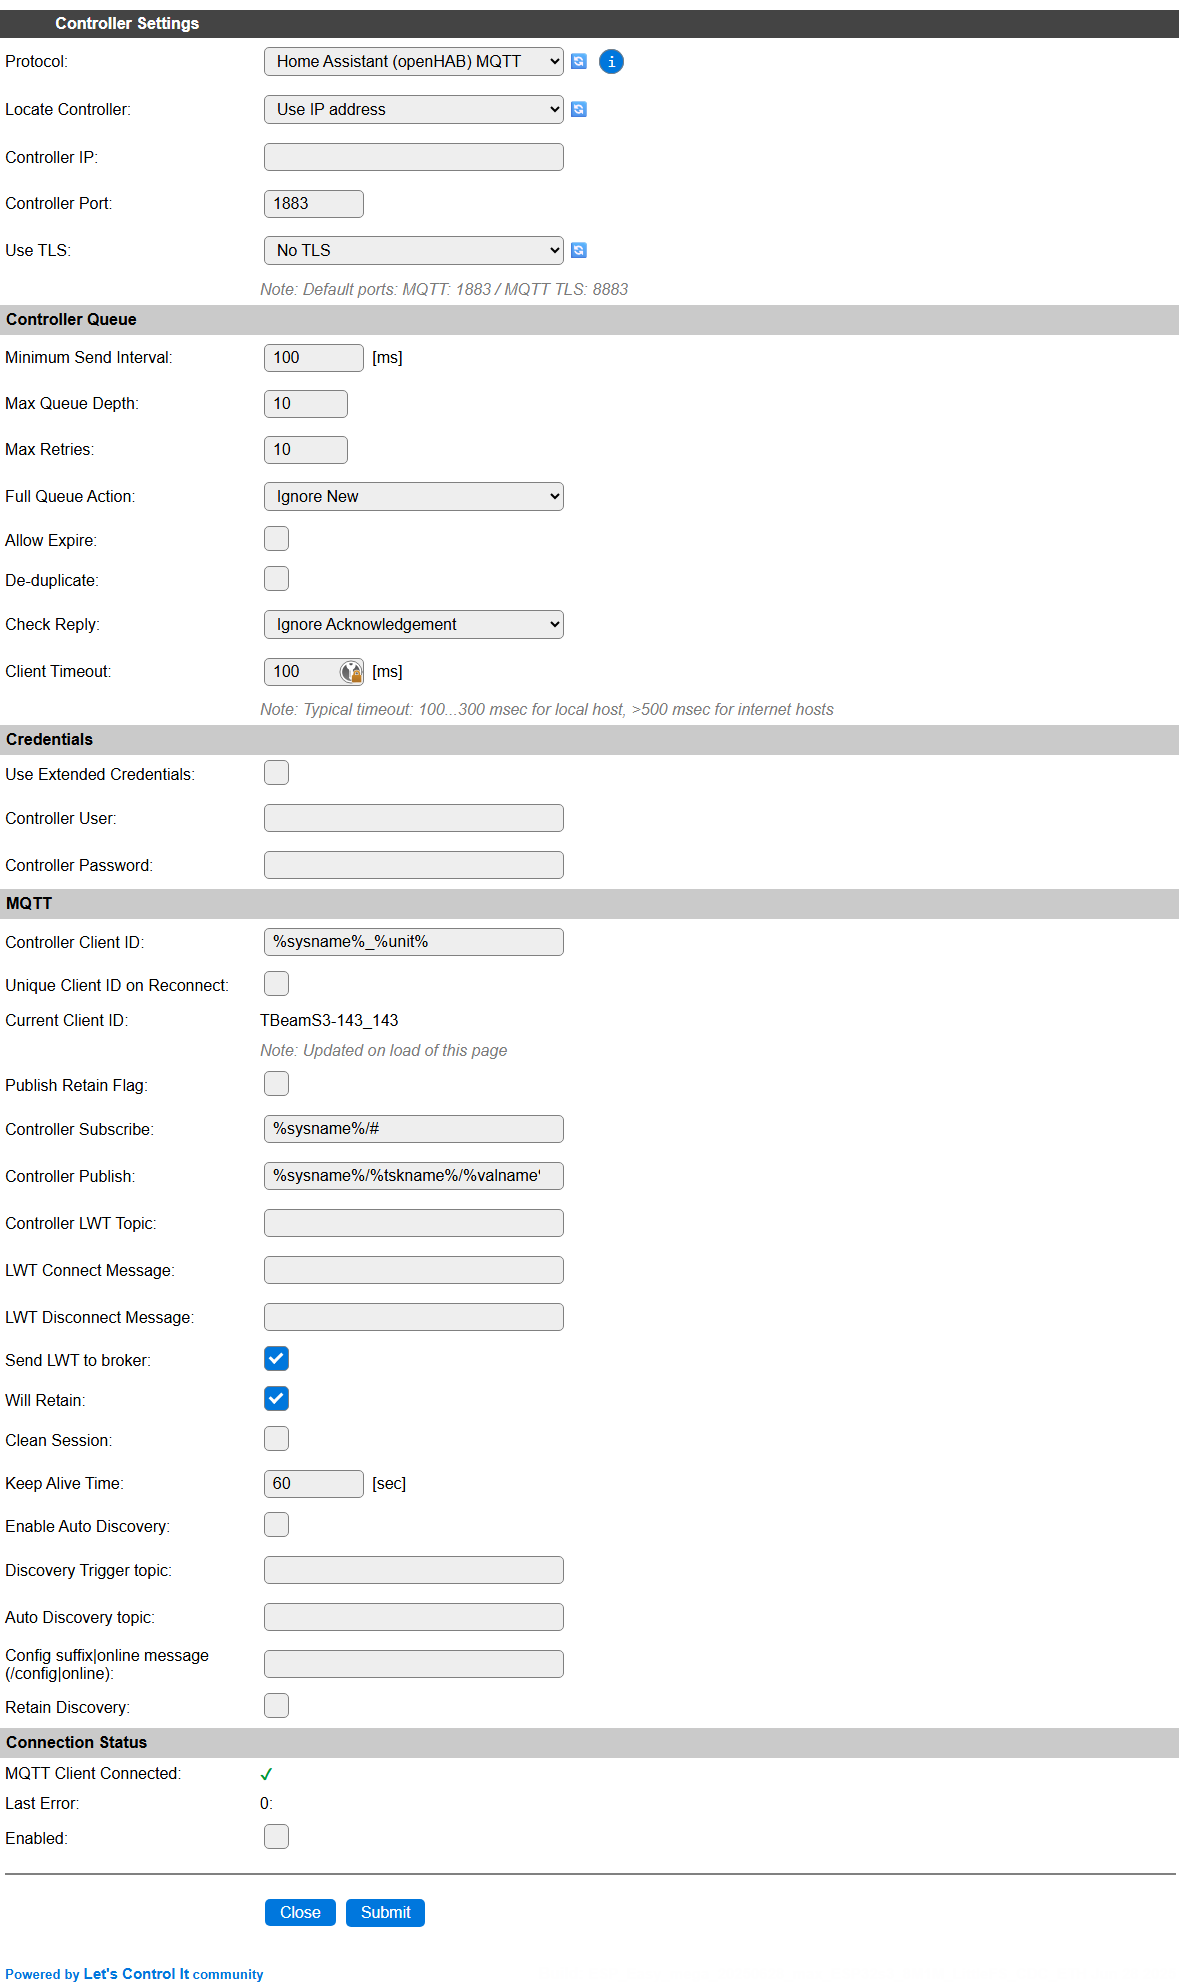
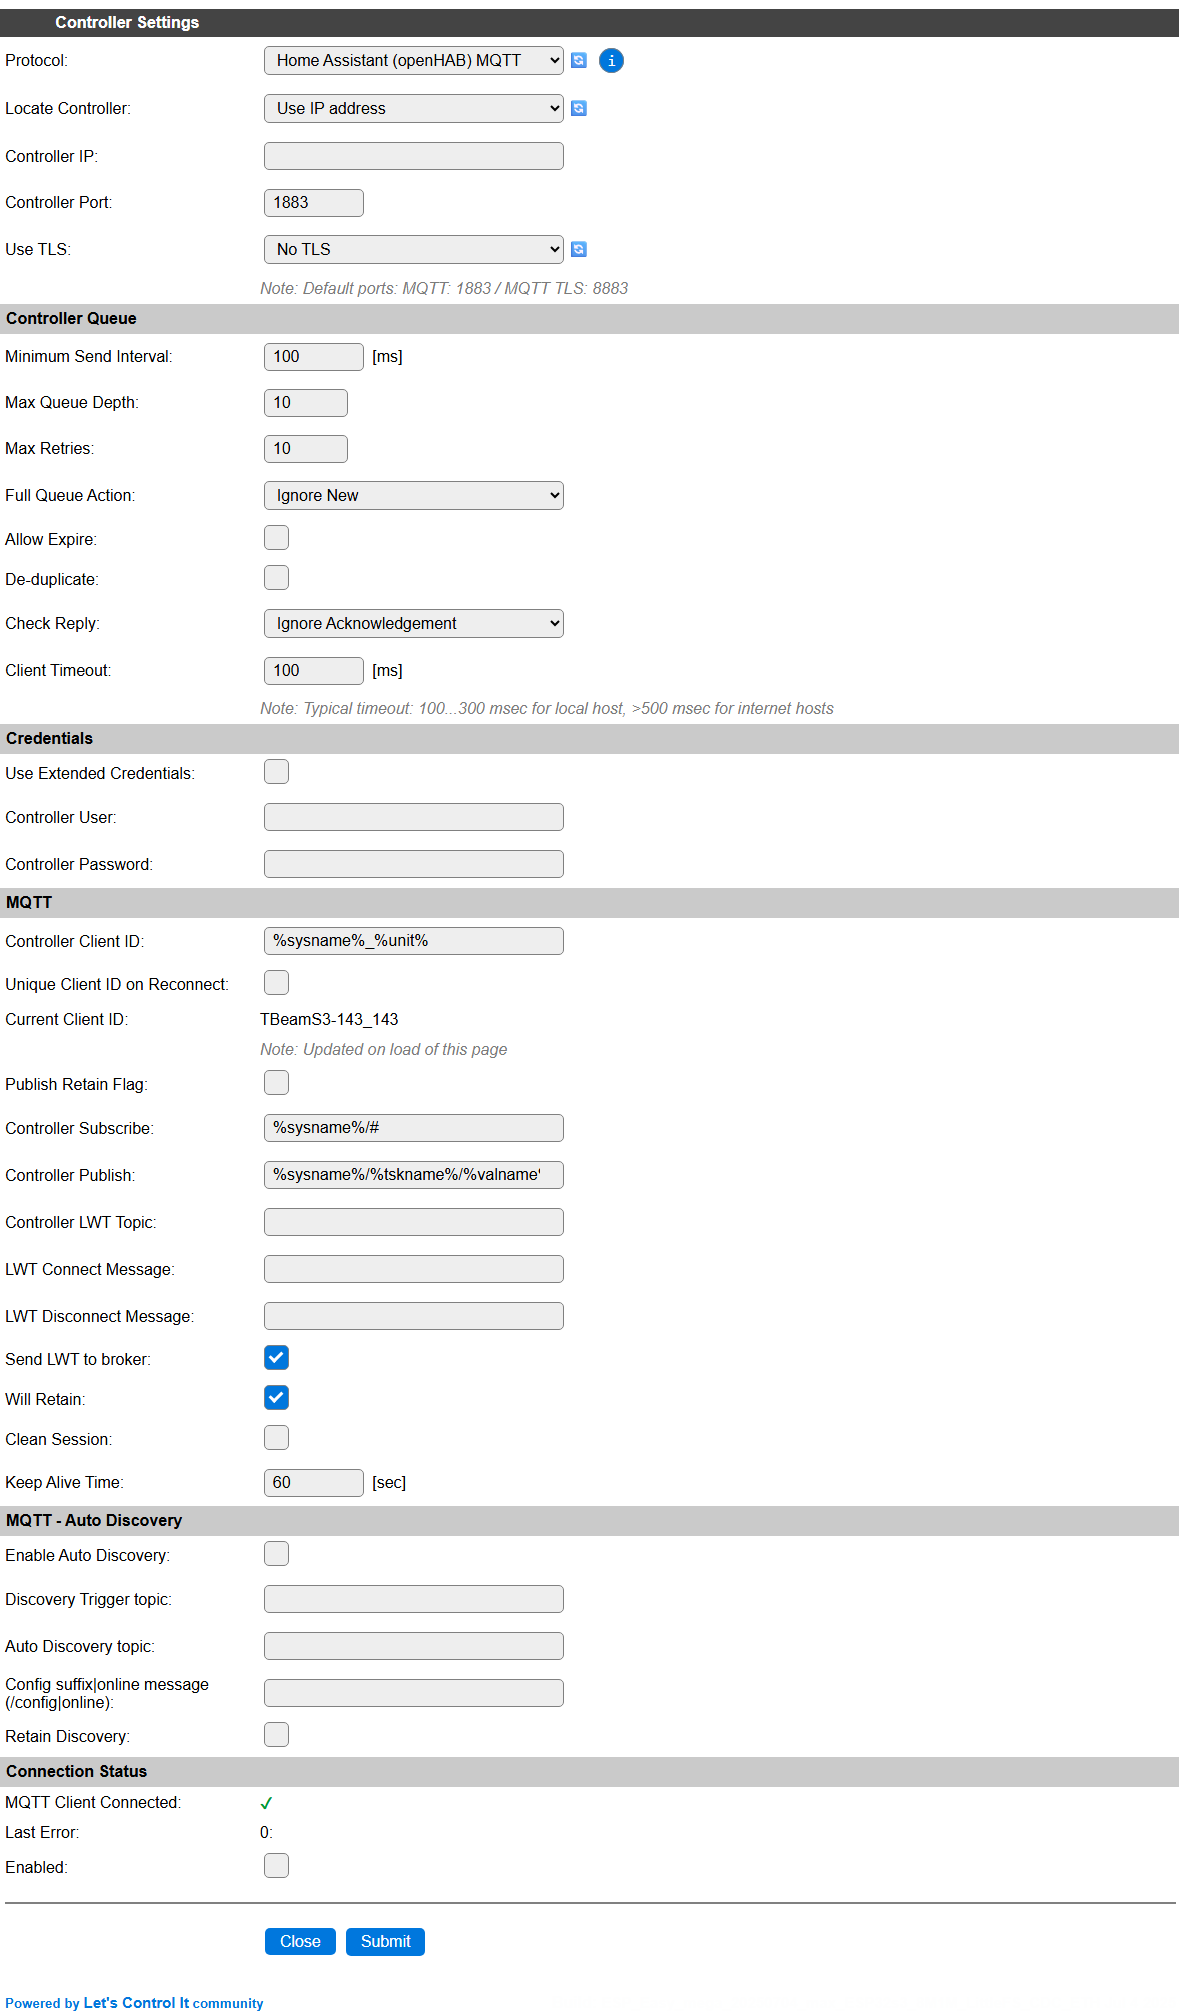
[AutoDiscover] Add Duration, Date and Timestamp device classes, fix some irregularities

diff --git a/src/src/Helpers/_CPlugin_Helper_mqtt.cpp b/src/src/Helpers/_CPlugin_Helper_mqtt.cpp
@@ -477,12 +477,17 @@ bool MQTT_HomeAssistant_SendAutoDiscovery(controllerIndex_t         ControllerIn
           const String elementIds = groupId != 0 && !usesControllerIDX ?
                                      strformat(F("group_%u"), groupId) :
                                      strformat(F("%s_%s"),    hostName.c_str(), taskName.c_str());
+          const String docLink = makeDocLink(strformat(
+                                               F("Plugin/%s.html"),
+                                               get_formatted_Plugin_number(Settings.getPluginID_for_task(x)).c_str()), true);
 
-          // dev = device, ids = identifiers, mf = manufacturer, sw = sw_version
+          // dev = device, ids = identifiers, mf = manufacturer, sw = sw_version, o = origin, url = support_url
           const String deviceElement = strformat(F(",\"dev\":{\"name\":\"%s\",\"ids\":[\"%s\"],"
-                                                   "\"mf\":\"ESPEasy\",\"sw\":\"%s\"}"),
+                                                   "\"mf\":\"ESPEasy\",\"sw\":\"%s\"},"
+                                                   "\"o\":{\"name\":\"%s\",\"sw\":\"%s\",\"url\":\"%s\"}"),
                                                  elementName.c_str(), elementIds.c_str(),
-                                                 getSystemBuildString().c_str());
+                                                 getSystemBuildString().c_str(),
+                                                 elementName.c_str(), getSystemBuildString().c_str(), docLink.c_str());
 
           #  if FEATURE_STRING_VARIABLES
 
@@ -931,6 +936,33 @@ bool MQTT_HomeAssistant_SendAutoDiscovery(controllerIndex_t         ControllerIn
                 break;
               }
 
+              case Sensor_VType::SENSOR_TYPE_DURATION:
+              case Sensor_VType::SENSOR_TYPE_DATE:
+              case Sensor_VType::SENSOR_TYPE_TIMESTAMP:
+              {
+                const __FlashStringHelper*dev = Sensor_VType::SENSOR_TYPE_DURATION == discoveryItems[s].VType ? F("duration") :
+                                                Sensor_VType::SENSOR_TYPE_DATE == discoveryItems[s].VType ? F("date") :
+                                                F("timestamp");
+                const __FlashStringHelper*uomDef = (Sensor_VType::SENSOR_TYPE_DURATION == discoveryItems[s].VType ? F("min") :
+                                                    F(""));
+
+                for (uint8_t v = discoveryItems[s].varIndex; v < varCount; ++v) {
+                  const String valuename = MQTT_DiscoveryHelperGetValueName(x, v, discoveryItems[s]);
+                  const String uom       = MQTT_DiscoveryHelperGetValueUoM(x, v, discoveryItems[s], uomDef);
+                  success &= MQTT_DiscoveryPublishWithStatusAndSet(x, v, valuename,
+                                                                   ControllerIndex,
+                                                                   ControllerSettings,
+                                                                   F("sensor"),
+                                                                   dev,
+                                                                   uom,
+                                                                   &TempEvent,
+                                                                   deviceElement,
+                                                                   success,
+                                                                   false, false, elementIds);
+                }
+                break;
+              }
+
 
               case Sensor_VType::SENSOR_TYPE_ANALOG_ONLY:
               case Sensor_VType::SENSOR_TYPE_GPS_ONLY:
@@ -1026,9 +1058,8 @@ bool MQTT_DiscoveryGetDeviceVType(taskIndex_t                 TaskIndex,
   if (PluginCall(PLUGIN_GET_DISCOVERY_VTYPES, &TempEvent, deviceClass)) {
     #  ifndef BUILD_NO_DEBUG
 
-    // FIXME change this log to DEBUG level
-    if (loglevelActiveFor(LOG_LEVEL_INFO)) {
-      addLog(LOG_LEVEL_INFO, strformat(F("MQTT : AutoDiscovery using Plugin-defined config (%d)"), discoveryItems.size()));
+    if (loglevelActiveFor(LOG_LEVEL_DEBUG)) {
+      addLog(LOG_LEVEL_DEBUG, strformat(F("MQTT : AutoDiscovery using Plugin-defined config (%d)"), discoveryItems.size()));
     }
     #  endif // ifndef BUILD_NO_DEBUG
 
@@ -1050,9 +1081,8 @@ bool MQTT_DiscoveryGetDeviceVType(taskIndex_t                 TaskIndex,
 
     #  ifndef BUILD_NO_DEBUG
 
-    // FIXME change this log to DEBUG level
-    if (loglevelActiveFor(LOG_LEVEL_INFO)) {
-      addLog(LOG_LEVEL_INFO, strformat(F("MQTT : AutoDiscovery Plugin specific config added (%d)"), discoveryItems.size()));
+    if (loglevelActiveFor(LOG_LEVEL_DEBUG)) {
+      addLog(LOG_LEVEL_DEBUG, strformat(F("MQTT : AutoDiscovery Plugin specific config added (%d)"), discoveryItems.size()));
     }
     #  endif // ifndef BUILD_NO_DEBUG
   } else {
@@ -1062,9 +1092,8 @@ bool MQTT_DiscoveryGetDeviceVType(taskIndex_t                 TaskIndex,
 
       #  ifndef BUILD_NO_DEBUG
 
-      // FIXME change this log to DEBUG level
-      if (loglevelActiveFor(LOG_LEVEL_INFO)) {
-        addLog(LOG_LEVEL_INFO, strformat(F("MQTT : AutoDiscovery Default Plugin config (%d)"), discoveryItems.size()));
+      if (loglevelActiveFor(LOG_LEVEL_DEBUG)) {
+        addLog(LOG_LEVEL_DEBUG, strformat(F("MQTT : AutoDiscovery Default Plugin config (%d)"), discoveryItems.size()));
       }
       #  endif // ifndef BUILD_NO_DEBUG
     }
@@ -1151,6 +1180,7 @@ bool MQTT_DiscoveryPublishWithStatusAndSet(taskIndex_t               taskIndex,
                                            bool                      sendTrigger) {
   if (!valueName.isEmpty()) {
     const String withSet   = hasSet ? F(",\"cmd_t\":\"~/set\"") : EMPTY_STRING;
+    const String schema    = hasSet ? EMPTY_STRING : "\"schema\":\"basic\",";
     const String devOrIcon = hasIcon ? F("ic") : F("dev_cla");
     const String withUoM   = !unitOfMeasure.isEmpty() ?
                              strformat(F(",\"unit_of_meas\":\"%s\""), unitOfMeasure.c_str()) :
@@ -1176,10 +1206,10 @@ bool MQTT_DiscoveryPublishWithStatusAndSet(taskIndex_t               taskIndex,
                                                               uniqueId,
                                                               elementId,
                                                               valueName);
-    const String discoveryMessage = strformat(F("{\"~\":\"%s\",\"name\":\"%s %s\",\"uniq_id\":\"%s\",\"schema\":\"basic\","
+    const String discoveryMessage = strformat(F("{\"~\":\"%s\",\"name\":\"%s %s\",\"uniq_id\":\"%s\",%s"
                                                 "\"%s\":\"%s\"%s%s,\"stat_t\":\"~\""
                                                 "%s}"), // deviceElement last
-                                              publish.c_str(), taskName.c_str(), valueName.c_str(), uniqueId.c_str(),
+                                              publish.c_str(), taskName.c_str(), valueName.c_str(), uniqueId.c_str(), schema.c_str(),
                                               devOrIcon.c_str(), deviceClass.c_str(), withUoM.c_str(), withSet.c_str(),
                                               deviceElement.c_str());
     const String triggerMessage = strformat(F("{\"atype\":\"trigger\",\"t\":\"%s\",\"pl\":\"{\\\"TRIG\\\":\\\"%s\\\"}\","

diff --git a/src/src/DataTypes/SensorVType.cpp b/src/src/DataTypes/SensorVType.cpp
@@ -89,6 +89,9 @@ uint8_t getValueCountFromSensorType(Sensor_VType sensorType, bool log)
     case Sensor_VType::SENSOR_TYPE_NOX_ONLY:
     case Sensor_VType::SENSOR_TYPE_SWITCH_INVERTED:
     case Sensor_VType::SENSOR_TYPE_WIND_SPEED:
+    case Sensor_VType::SENSOR_TYPE_DURATION:
+    case Sensor_VType::SENSOR_TYPE_DATE:
+    case Sensor_VType::SENSOR_TYPE_TIMESTAMP:
       return 1;
   }
   #ifndef BUILD_NO_DEBUG
@@ -168,6 +171,9 @@ const __FlashStringHelper* getSensorTypeLabel(Sensor_VType sensorType) {
     case Sensor_VType::SENSOR_TYPE_NOX_ONLY:         return F("NOx");
     case Sensor_VType::SENSOR_TYPE_SWITCH_INVERTED:  return F("Switch (inv.)");
     case Sensor_VType::SENSOR_TYPE_WIND_SPEED:       return F("Wind speed");
+    case Sensor_VType::SENSOR_TYPE_DURATION:         return F("Duration");
+    case Sensor_VType::SENSOR_TYPE_DATE:             return F("Date");
+    case Sensor_VType::SENSOR_TYPE_TIMESTAMP:        return F("Timestamp");
     #else // if FEATURE_MQTT_DISCOVER || FEATURE_CUSTOM_TASKVAR_VTYPE
     case Sensor_VType::SENSOR_TYPE_ANALOG_ONLY:
     case Sensor_VType::SENSOR_TYPE_TEMP_ONLY:
@@ -201,6 +207,9 @@ const __FlashStringHelper* getSensorTypeLabel(Sensor_VType sensorType) {
     case Sensor_VType::SENSOR_TYPE_NOX_ONLY:
     case Sensor_VType::SENSOR_TYPE_SWITCH_INVERTED:
     case Sensor_VType::SENSOR_TYPE_WIND_SPEED:
+    case Sensor_VType::SENSOR_TYPE_DURATION:
+    case Sensor_VType::SENSOR_TYPE_DATE:
+    case Sensor_VType::SENSOR_TYPE_TIMESTAMP:
       break;
     #endif // if FEATURE_MQTT_DISCOVER || FEATURE_CUSTOM_TASKVAR_VTYPE
   }

diff --git a/src/src/WebServer/DevicesPage.cpp b/src/src/WebServer/DevicesPage.cpp
@@ -400,7 +400,8 @@ void handle_devices_CopySubmittedSettings(taskIndex_t taskIndex, pluginID_t task
     Settings.TaskDeviceSendData[controllerNr][taskIndex] = isFormItemChecked(getPluginCustomArgName(F("TDSD"), controllerNr));
     # if FEATURE_MQTT_DISCOVER
     
-    if (isFormItemChecked(getPluginCustomArgName(F("TDDSC"), controllerNr))) {
+    if (isFormItemChecked(getPluginCustomArgName(F("TDDSC"), controllerNr)) &&
+        Settings.TaskDeviceSendData[controllerNr][taskIndex]) {
       discoverController = controllerNr;
     }
     # endif // if FEATURE_MQTT_DISCOVER
@@ -1589,8 +1590,7 @@ void devicePage_show_controller_config(taskIndex_t taskIndex, deviceIndex_t Devi
                                         (Settings.Protocol[controllerNr] != 0);
         # if FEATURE_MQTT_DISCOVER
         const bool showMqttGroup = (validProtocolIndex(ProtocolIndex) &&
-                                    getProtocolStruct(ProtocolIndex).mqttAutoDiscover &&
-                                    Settings.TaskDeviceSendData[controllerNr][taskIndex]);
+                                    getProtocolStruct(ProtocolIndex).mqttAutoDiscover);
         # endif // if FEATURE_MQTT_DISCOVER
         # if FEATURE_STRING_VARIABLES
         const bool allowSendDerived = (validProtocolIndex(ProtocolIndex) &&

diff --git a/src/src/WebServer/ControllerPage.cpp b/src/src/WebServer/ControllerPage.cpp
@@ -479,6 +479,8 @@ void handle_controllers_ControllerSettingsPage(controllerIndex_t controllerindex
             #  if FEATURE_MQTT_DISCOVER
 
             if (proto.mqttAutoDiscover) {
+              addTableSeparator(F("MQTT - Auto Discovery"), 2, 3);
+
               addControllerParameterForm(*ControllerSettings, controllerindex, ControllerSettingsStruct::CONTROLLER_AUTO_DISCOVERY_OPTION);
               addControllerParameterForm(*ControllerSettings, controllerindex, ControllerSettingsStruct::CONTROLLER_AUTO_DISCOVERY_TRIGGER);
               addControllerParameterForm(*ControllerSettings, controllerindex, ControllerSettingsStruct::CONTROLLER_AUTO_DISCOVERY_TOPIC);

diff --git a/src/src/Helpers/_Plugin_SensorTypeHelper.cpp b/src/src/Helpers/_Plugin_SensorTypeHelper.cpp
@@ -67,8 +67,7 @@ void sensorTypeHelper_Selector(const String& id, int optionCount, const uint8_t 
   for (uint8_t x = 0; x < optionCount; x++)
   {
     const Sensor_VType optionVType = static_cast<Sensor_VType>(options[x]);
-    String name = getSensorTypeLabel(optionVType);
-    addSelector_Item(name,
+    addSelector_Item(getSensorTypeLabel(optionVType),
                      options[x],
                      choice == optionVType);
   }

diff --git a/src/src/DataTypes/SensorVType.h b/src/src/DataTypes/SensorVType.h
@@ -66,6 +66,9 @@ enum class Sensor_VType : uint8_t {
   SENSOR_TYPE_NOX_ONLY        = 129,
   SENSOR_TYPE_SWITCH_INVERTED = 130,
   SENSOR_TYPE_WIND_SPEED      = 131,
+  SENSOR_TYPE_DURATION        = 132,
+  SENSOR_TYPE_DATE            = 133,
+  SENSOR_TYPE_TIMESTAMP       = 134,
 
   SENSOR_TYPE_NOT_SET = 255
 };

diff --git a/docs/source/Controller/C005.rst b/docs/source/Controller/C005.rst
@@ -113,11 +113,16 @@ Supported variables:
 
 * **Keep Alive Time**: The time after which the MQTT broker will disconnect the client if no new data is sent. Range 0..65535 seconds, default 60. Should usually not be set below 15 seconds, to avoid frequent disconnects and reconnects (causing the AutoDiscovery, see below, to be re-sent...).
 
+MQTT - Auto Discovery
+^^^^^^^^^^^^^^^^^^^^^
+
 (AutoDiscovery related settings added 2025/06/28)
 
 * **Enable Auto Discovery**: When checked, the controller will send discovery data for all connected and enabled tasks to the MQTT server on first startup, and when receiving an ``online`` message in the Discovery Trigger Topic, when configured.
 
-* **Discovery Trigger topic**: The discovery can be started by multiple triggers:
+* **Discovery Trigger topic**: Default for Home assistant: ``homeassistant/status``
+
+The discovery can be started by multiple triggers:
 
 1) ESPEasy MQTT Controller start
 2) Home assistant MQTT Broker startup, sending an ``online`` message (see below) in the topic ``homeassistant/status``
@@ -125,7 +130,7 @@ Supported variables:
 
 When Auto Discovery is triggered, it will be started after a random, non-blocking, delay between 1 and 30 seconds to spread the load on the MQTT Broker f.e. after a restart of Home assistant, requesting for a discovery, or after a power failure and many ESPEasy devices starting at nearly the same time.
 
-* **Auto Discovery topic**: The topic that should be used for sending the Discovery data. For Home assistant, this should be set to ``homeassistant/%devclass%/%unique_id%``, the available variables are the same as for the **Controller Publish** settinng, and extended with these:
+* **Auto Discovery topic**: The topic that should be used for sending the Discovery data. For Home assistant, this should be set to ``homeassistant/%devclass%/%unique_id%``, the available variables are the same as for the **Controller Publish** setting, and extended with these:
 
 Extra variables:
 
@@ -135,9 +140,9 @@ Extra variables:
 
 |
 
-* **Config suffix|online message (/config|online)**: When sending the Discovery data, the topic has to end with ``/config``, by default, but this setting can be changed in he Home assistant configuration. If this is changed, it should be set here (including the ``/`` prefix). The default value is ``/config``, and it can not be an empty value.
+* **Config suffix|online message (/config|online)**: Default: Empty, for using the default values. When sending the Discovery data, the topic has to end with ``/config``, by default, but this setting can be changed in the Home assistant configuration. If this is changed, it should be added here (including the ``/`` prefix).
 
-  Similarly, the ``online`` message, sent by Home assistant on startup, can be changed. The value can be configured in this field, separated from the ``/config`` setting by a pipe symbol ``|``. If only the ``online`` message is to be changed and uses the default ``/config`` setting, the pipe symbol still has to be inserted too!
+  Similarly, the ``online`` message, sent by Home assistant on startup to trigger the discovery process, can be changed. The value can be configured in this field, separated from the ``/config`` setting by a pipe symbol ``|``. If only the ``online`` message is to be changed and uses the default ``/config`` suffix, the pipe symbol still has to be inserted too!
 
 * **Retain Discovery**: By default the Discovery data is sent without Retain flag set, but when enabling this option, it will be sent with Retain set.
 

diff --git a/docs/source/Plugin/_Plugin.rst b/docs/source/Plugin/_Plugin.rst
@@ -269,11 +269,15 @@ Value Type
 
 On selected builds and for some plugins only, the Value Type selection is available. This selection is available when either the type of value per Value field is selectable by the user, or can have too many options to determine explicitly.
 
-The options included here are all possible value types supported by ESPEasy that represent a *single* value, excluding options like Temp/Hum, Temp/Baro/Hum etc., and are used during the MQTT AutoDiscovery process. ``None`` indicates no value type is selected.
+The options included here are all possible value types supported by ESPEasy that represent a *single* value, excluding options like Temp/Hum, Temp/Baro/Hum etc. ``None`` indicates no value type is selected.
 
 Available options: ``Single, Switch, Dimmer, UInt32 (1x), String, Int32 (1x), UInt64 (1x), Int64 (1x),`` ``Double (1x), Analog, Temp, Hum, Lux, Distance, Direction, Dust PM2.5,``
 ``Dust PM1.0, Dust PM10, Moisture, (e)CO2, GPS, UV, UV Index, IR, Weight, Voltage,`` ``Current, Power Usage, Power Factor, Apparent Power Usage, TVOC, Baro,``
-``Red, Green, Blue, Color temperature, Reactive Power, AQI, NOx, Switch (inv.), Wind speed``
+``Red, Green, Blue, Color temperature, Reactive Power, AQI, NOx, Switch (inv.),`` ``Wind speed, Duration, Date, Timestamp``
+
+.. note:: When available, this setting is required for the Value to be included in the MQTT AutoDiscovery process.
+
+NB: ``Date`` and ``Timestamp`` Value Types can only be sent using Derived Values, as regular Values don't support the required formatting. Also, the Unit of Measure (when applicable) has to be provided there. The data should match ISO8601 format.
 
 |
 
